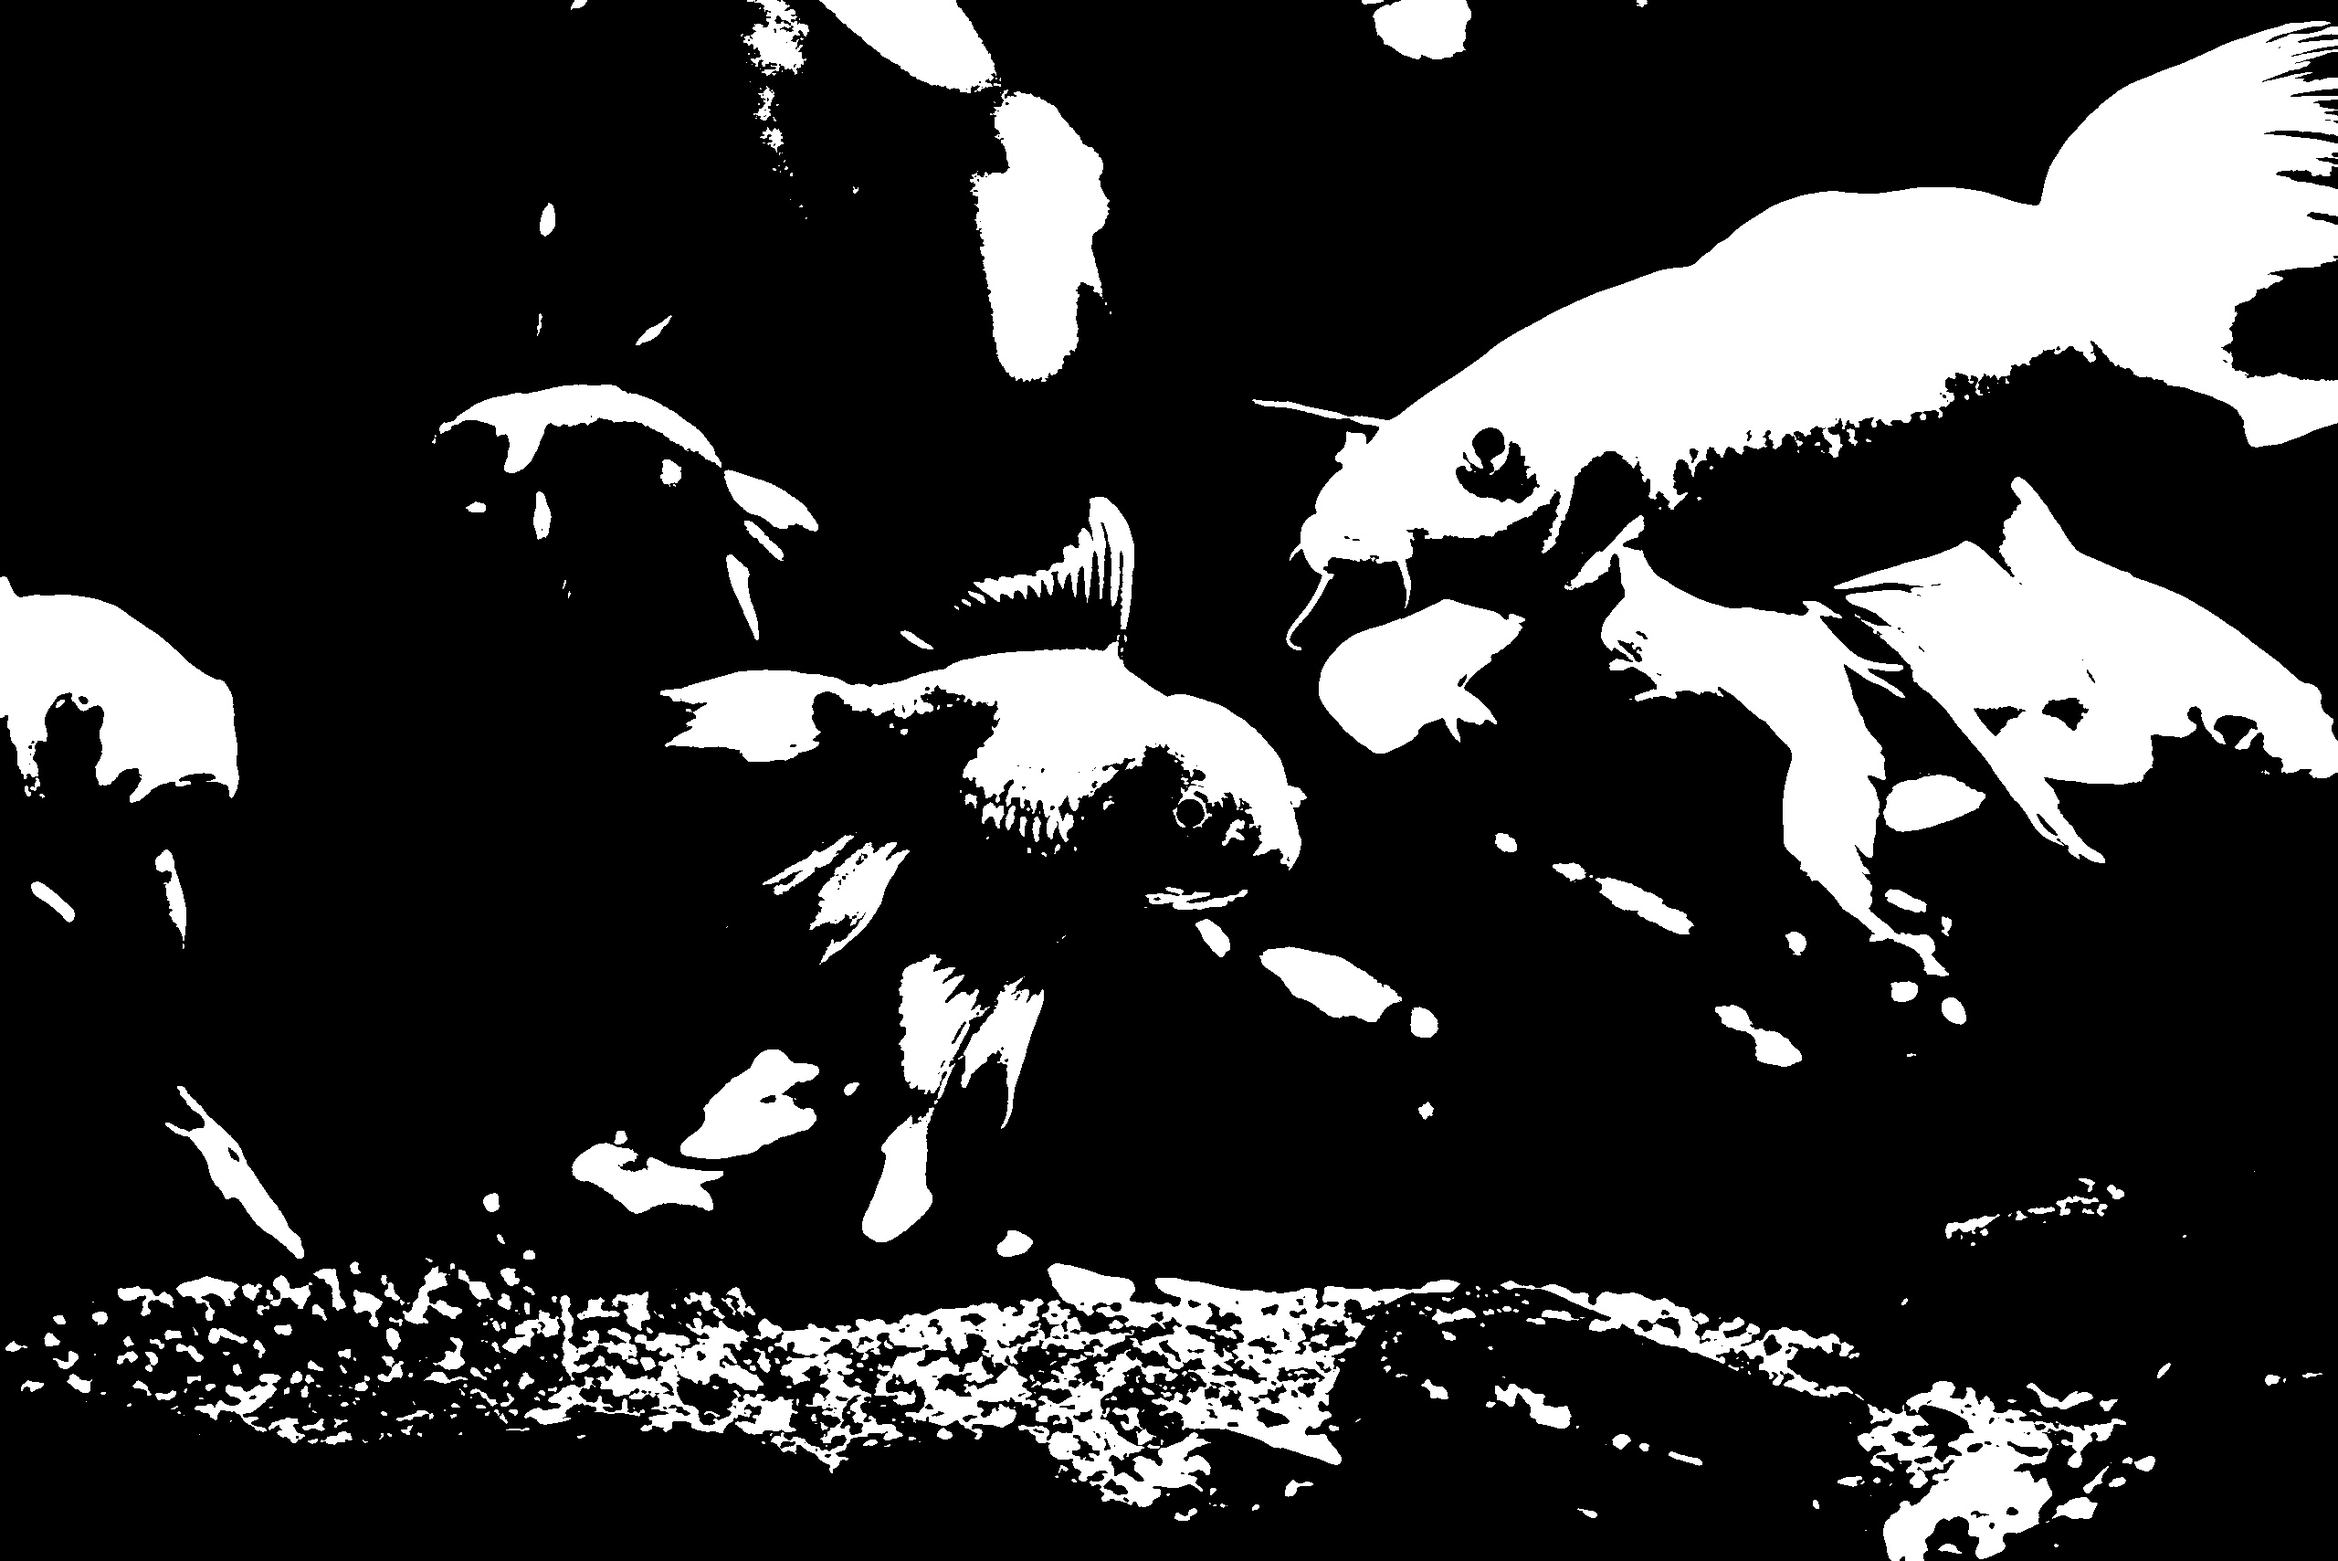
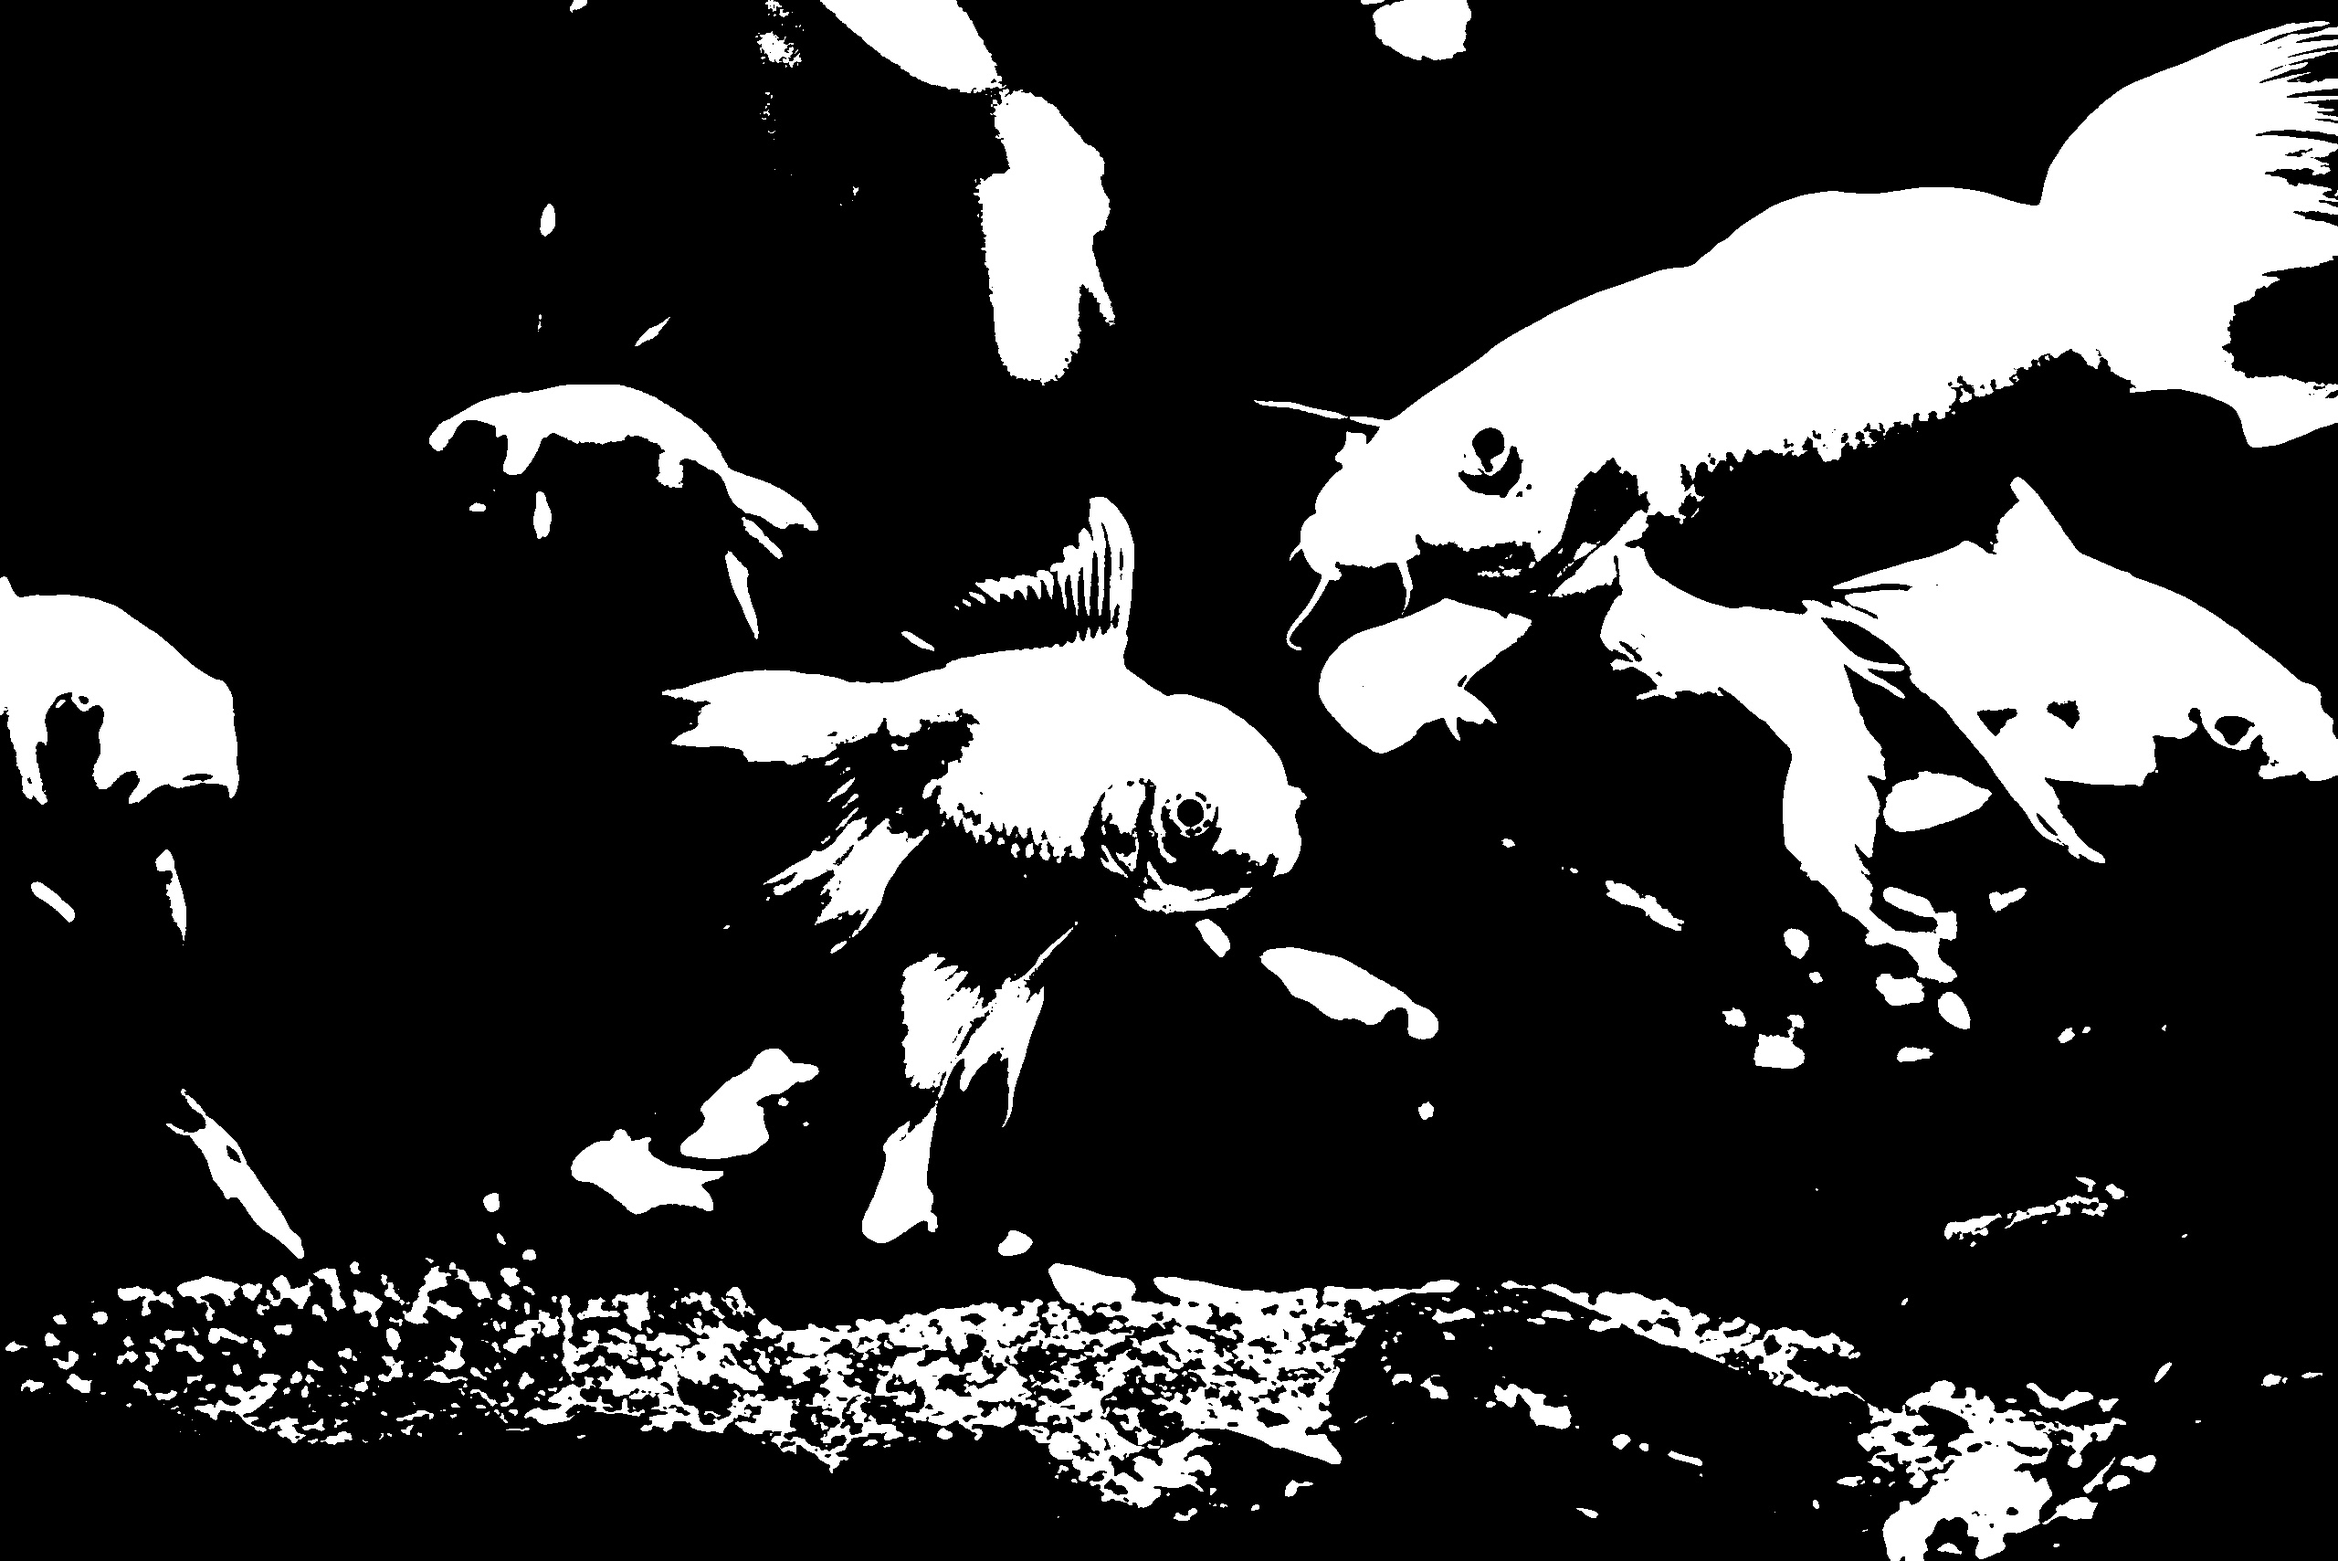
omg le code s'execute en qlqs secondes!!

diff --git a/TP_28-06-2024/exemple1_ameliorations.py b/TP_28-06-2024/exemple1_ameliorations.py
@@ -3,7 +3,7 @@
 try:
     import numpy as np
 except ImportError as import_exception:
-    raise ImportError("La bibliothèque OpenCV (cv2) n'est pas installée. Veuillez l'installer avant d'exécuter cette fonction.") from import_exception
+    raise ImportError("La bibliothèque Numpy n'est pas installée. Veuillez l'installer avant d'exécuter cette fonction.") from import_exception
 
 try:
     import cv2
@@ -21,107 +21,94 @@ class ImageThresholdError(Exception):
     """Exception levée lorsque l'application du seuil sur l'image échoue."""
 
 
-def load(load_path: str) -> object:
+def load(load_path: str) -> np.ndarray:
     """
     Charge une image à partir de son path.
 
-    Paramètre:
-    path (str): Chemin de l'image a charger.
+    Paramètres :
+    load_path (str): Chemin de l'image à charger.
 
-    Retourne:
-    image: image sous forme d'objet.
-    """
-    loaded_image = cv2.imread(load_path)
-    if loaded_image is None:
-        raise ImageLoadError(f"Erreur lors du chargement de l'image : {load_path}")
-    return loaded_image
-
-def convert(image_to_convert):
-    """
-    Convertit une image en nuances de gris en calculant la moyenne des valeurs
-    des canaux R, G et B pour chaque pixel et en les assignant à chaque canal.
-
-    Paramètres:
-    image_to_convert : L'image à convertir, sous forme d'un tableau numpy à 3 dimensions.
-
-    Retourne:
-    image: L'image convertie en nuances de gris. Retourne None si une erreur survient pendant la conversion.
+    Retourne :
+    np.ndarray: L'image chargée sous forme d'un tableau numpy.
+    
+    Lève :
+    ImageLoadError: Si le chargement de l'image échoue.
     """
     try:
-        height, width, _ = image_to_convert.shape
-        for i in range(height):
-            for j in range(width):
-                gray_value = (int(image_to_convert[i, j, 0]) + int(image_to_convert[i, j, 1]) + int(image_to_convert[i, j, 2])) // 3
-                image_to_convert[i, j] = [gray_value, gray_value, gray_value]
-        return image_to_convert
-    except Exception as convert_exception:
-        raise ImageConvertError(f"Erreur lors de la conversion de l'image : {convert_exception}") from convert_exception
+        loaded_image = cv2.imread(load_path)
+        if loaded_image is None:
+            raise ImageLoadError(f"Erreur lors du chargement de l'image : {load_path}")
+        return loaded_image
+    except Exception as e:
+        raise ImageLoadError(f"Erreur lors du chargement de l'image : {str(e)}") from e
 
-def blur(image_to_blur, kernel_size=(5, 5)):
+def convert(image_to_convert: np.ndarray) -> np.ndarray:
     """
-    Applique un flu gaussien à l'image donnée
+    Convertit une image en nuances de gris.
 
-    Paramètre:
-    image_to_blur: image sous forme d'objet.
-    kernel_size: 
+    Paramètres :
+    image_to_convert (np.ndarray): L'image à convertir, tableau numpy à 3 dimensions.
 
-    Retourne:
-    image: image fl.
-    """
-    try:
-        blurred_image = cv2.GaussianBlur(image_to_blur, kernel_size, 0)
-        return blurred_image
-    except Exception as blur_exception:
-        raise ImageBlurError(f"Erreur lors de l'application du flou gaussien : {blur_exception}") from blur_exception
+    Retourne :
+    np.ndarray: L'image convertie en nuances de gris.
 
-def threshold(image_to_threshold, threshold=127):
-    """
-    Applique un seuillage sur une image en convertissant chaque pixel en noir ou blanc en fonction d'un seuil spécifié.
-
-    Paramètres:
-    image_to_threshold: L'image à seuiller, sous forme d'un tableau numpy à 2 dimensions ou 3 dimensions.
-    threshold (int): Valeur seuil (0-255). Les pixels avec une valeur supérieure à ce seuil seront convertis en 255 (blanc),
-                     ceux avec une valeur inférieure ou égale seront convertis en 0 (noir).
-
-    Retourne:
-    np.ndarray: L'image seuillée avec des pixels noirs (0) et blancs (255). Retourne None si une erreur survient pendant le seuillage.
+    Lève :
+    ImageConvertError: Si la conversion échoue.
     """
     try:
-        if np.ndim(image_to_threshold) == 2:  # Image en niveaux de gris
-            height, width = image_to_threshold.shape
-            for i in range(height):
-                for j in range(width):
-                    if image_to_threshold[i, j] > threshold:
-                        image_to_threshold[i, j] = 255
-                    else:
-                        image_to_threshold[i, j] = 0
-        elif np.ndim(image_to_threshold) == 3:  # Image en couleur
-            height, width, _ = image_to_threshold.shape
-            for i in range(height):
-                for j in range(width):
-                    if np.mean(image_to_threshold[i, j]) > threshold:
-                        image_to_threshold[i, j] = [255, 255, 255]
-                    else:
-                        image_to_threshold[i, j] = [0, 0, 0]
+        gray_image = cv2.cvtColor(image_to_convert, cv2.COLOR_BGR2GRAY)
+        return cv2.cvtColor(gray_image, cv2.COLOR_GRAY2BGR)
+    except Exception as e:
+        raise ImageConvertError(f"Erreur lors de la conversion de l'image : {str(e)}") from e
+
+def threshold(image_to_threshold: np.ndarray, threshold=127) -> np.ndarray:
+    """
+    Applique un seuillage à une image.
+
+    Paramètres :
+    image_to_threshold (np.ndarray): L'image à seuiller.
+    threshold (int): Valeur de seuil (0-255).
+
+    Retourne :
+    np.ndarray: L'image seuillée.
+
+    Lève :
+    ImageThresholdError: Si l'application du seuil échoue.
+    """
+    try:
+        if image_to_threshold.ndim == 2:  # Image en niveaux de gris
+            _, thresholded_image = cv2.threshold(image_to_threshold, threshold, 255, cv2.THRESH_BINARY)
+            return thresholded_image
+        elif image_to_threshold.ndim == 3:  # Image en couleur
+            gray_image = cv2.cvtColor(image_to_threshold, cv2.COLOR_BGR2GRAY)
+            _, thresholded_image = cv2.threshold(gray_image, threshold, 255, cv2.THRESH_BINARY)
+            return cv2.cvtColor(thresholded_image, cv2.COLOR_GRAY2BGR)
         else:
             raise ValueError("Format d'image non pris en charge : doit être 2D (niveaux de gris) ou 3D (couleur).")
+    except Exception as e:
+        raise ImageThresholdError(f"Erreur lors de l'application du seuil sur l'image : {str(e)}") from e
 
-        return image_to_threshold
+def save(image: np.ndarray, output_path: str):
+    """
+    Enregistre une image traitée.
 
-    except Exception as threshold_exception:
-        raise ImageThresholdError(f"Erreur lors de l'application du seuil sur l'image : {threshold_exception}") from threshold_exception
+    Paramètres :
+    image (np.ndarray): L'image à enregistrer.
+    output_path (str): Chemin de sortie pour enregistrer l'image.
 
-def save(image, output_path):
+    Lève :
+    Exception: En cas d'erreur lors de l'enregistrement de l'image.
+    """
     try:
         cv2.imwrite(output_path, image)
         print("Image traitée enregistrée avec succès :", output_path)
     except Exception as e:
         print(f"Erreur {e}")
 
-
-image_path = "example_image.jpg"
-original_image = load(image_path)
-
-image = threshold(convert(blur(original_image)))
-output_path = "processed_image.jpg"
-save(image, output_path)
+# Exemple d'utilisation
+if __name__ == "__main__":
+    image_path = "example_image.jpg"
+    original_image = load(image_path)
+    processed_image = threshold(convert(cv2.GaussianBlur(original_image, (5, 5), 0)))
+    output_path = "processed_image.jpg"
+    save(processed_image, output_path)
